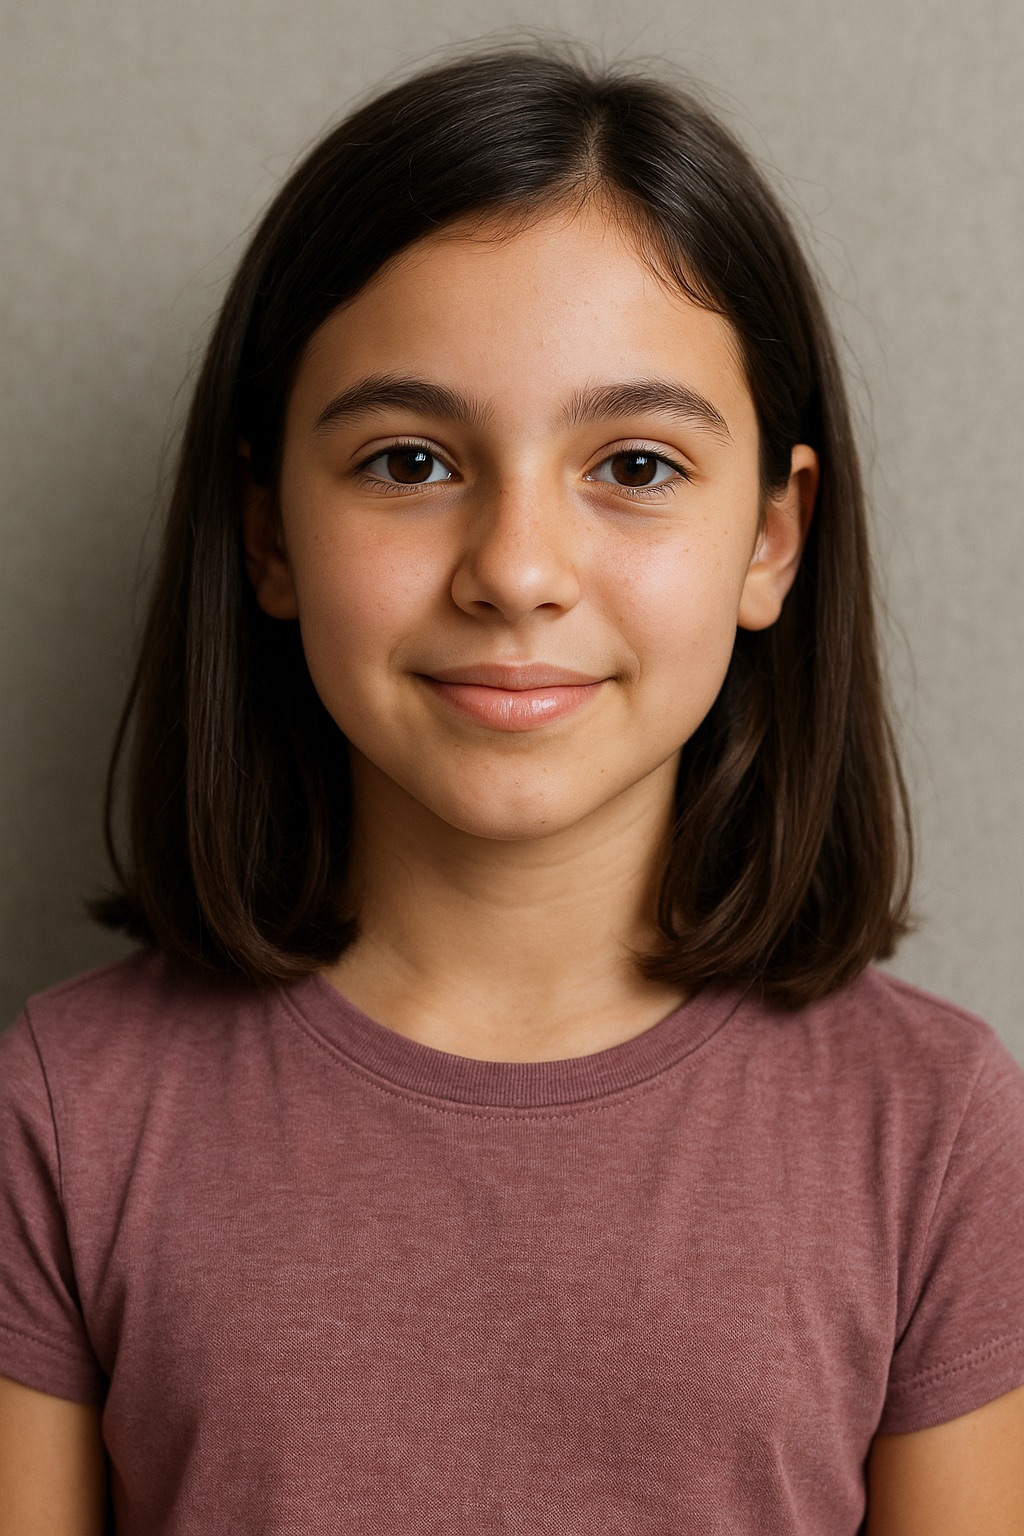
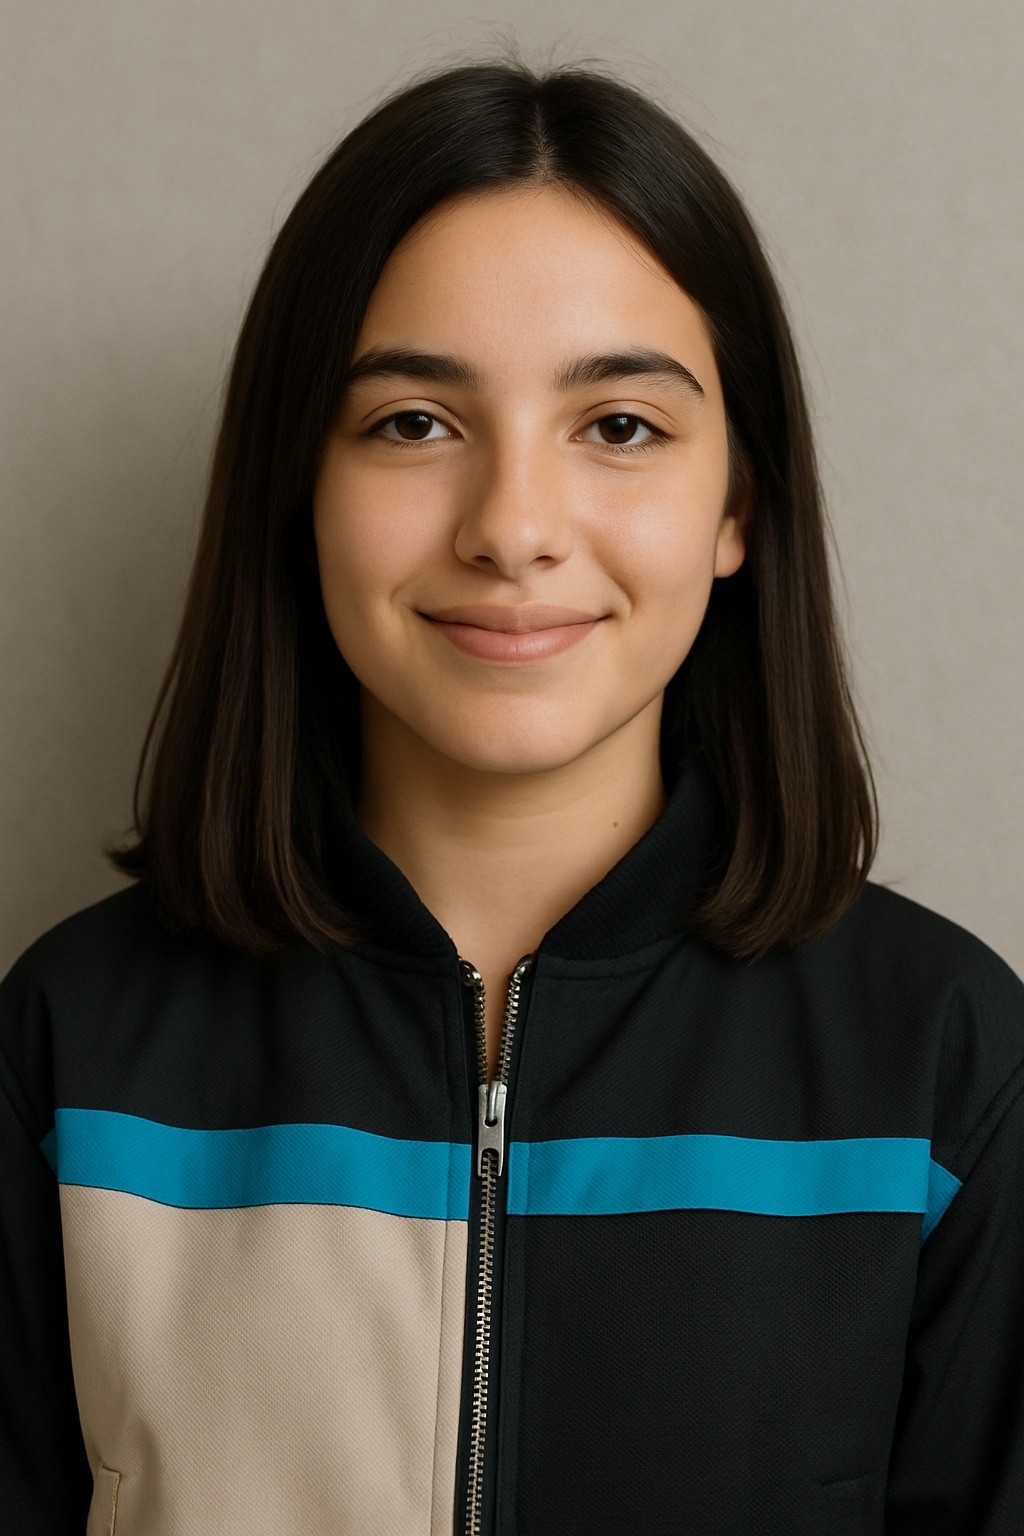
Add Sofía Hernández's complete academic profile and update profile image
- Created a new markdown file for Sofía Hernández López's comprehensive academic profile, detailing personal, academic, attendance, and psychosocial development information for the 2024-2025 academic year.
- Updated the profile image for Sofía to enhance visual representation in the StudentProfile component.
- Modified the StudentProfile component to improve the layout and presentation of the profile photo, including a fallback mechanism for image loading.

This update enriches the student profile feature, providing detailed insights into academic performance and personal development while improving the user interface for better engagement.

diff --git a/frontend/src/pages/StudentProfile.tsx b/frontend/src/pages/StudentProfile.tsx
@@ -157,22 +157,26 @@ const StudentProfile: React.FC = () => {
               </div>
               
               {/* Profile Photo */}
-              <div className="flex items-center gap-4">
-                <div className="w-20 h-20 rounded-full overflow-hidden border-2 border-border">
-                  <img
-                    src="/images/sofia-profile.jpg"
-                    alt="Sofía Hernández López"
-                    className="w-full h-full object-cover"
-                    onError={(e) => {
-                      // Fallback to illustration avatar if local image fails
-                      const fallbackImages = [
-                        "https://api.dicebear.com/7.x/personas/svg?seed=Sofia&backgroundColor=b6e3f4&hair=long01,long02&hairColor=brown&eyes=normal&mouth=smile&skinColor=f4d1ad",
-                        "https://ui-avatars.com/api/?name=Sofia+H&size=200&background=e3f2fd&color=1976d2&font-size=0.6&bold=true"
-                      ];
-                      const randomIndex = Math.floor(Math.random() * fallbackImages.length);
-                      e.currentTarget.src = fallbackImages[randomIndex];
-                    }}
-                  />
+              <div className="flex justify-center items-center">
+                <div className="relative">
+                  <div className="w-24 h-32 rounded-xl overflow-hidden ring-4 ring-blue-100 ring-offset-4 ring-offset-background shadow-lg bg-gradient-to-br from-blue-50 to-indigo-50 p-1">
+                    <div className="w-full h-full rounded-lg overflow-hidden bg-white">
+                      <img
+                        src="/images/sofia-profile.jpg"
+                        alt="Sofía Hernández López"
+                        className="w-full h-full object-cover transition-transform duration-300 hover:scale-105"
+                        onError={(e) => {
+                          // Fallback to illustration avatar if local image fails
+                          const fallbackImages = [
+                            "https://api.dicebear.com/7.x/personas/svg?seed=Sofia&backgroundColor=b6e3f4&hair=long01,long02&hairColor=brown&eyes=normal&mouth=smile&skinColor=f4d1ad",
+                            "https://ui-avatars.com/api/?name=Sofia+H&size=200&background=e3f2fd&color=1976d2&font-size=0.6&bold=true"
+                          ];
+                          const randomIndex = Math.floor(Math.random() * fallbackImages.length);
+                          e.currentTarget.src = fallbackImages[randomIndex];
+                        }}
+                      />
+                    </div>
+                  </div>
                 </div>
               </div>
             </div>
